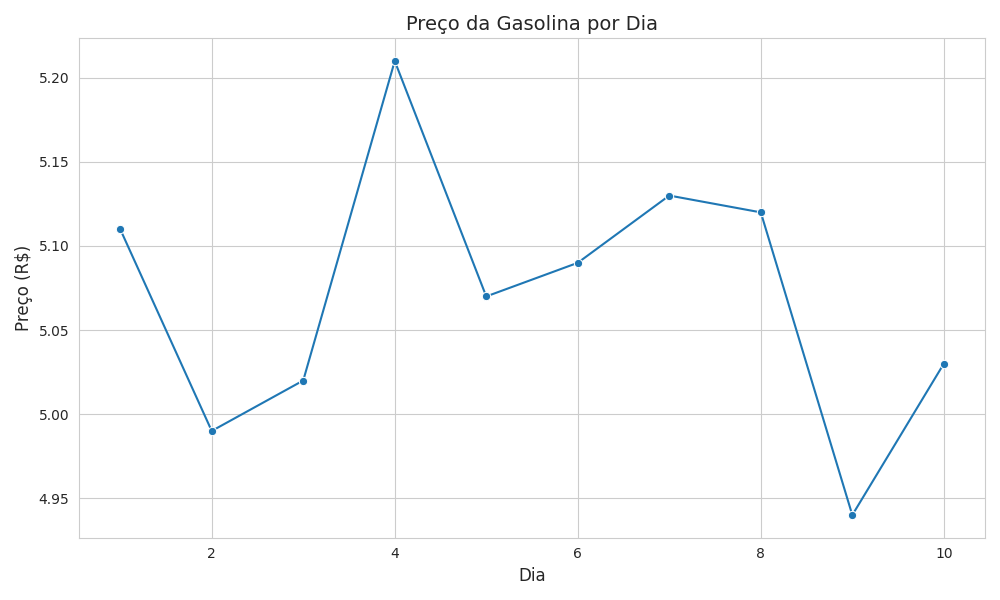
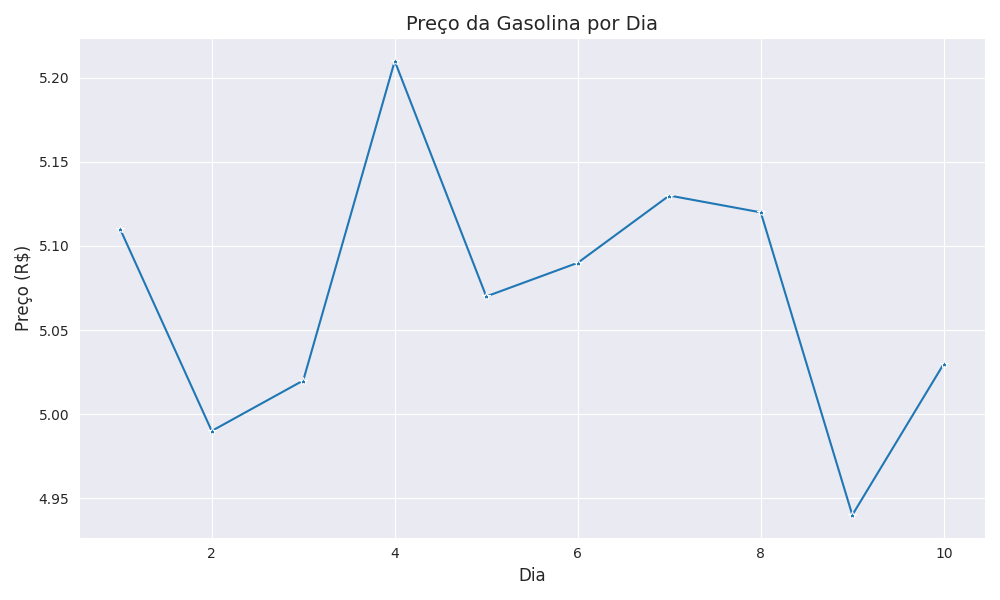
version darkgrid

Changed region(s): [[0.186, 0.69, 0.217, 0.72]]

diff --git a/gasolina.py b/gasolina.py
@@ -7,11 +7,11 @@ import seaborn as sns
 df = pd.read_csv('gasolina.csv')
 
 # Define o estilo visual do Seaborn
-sns.set_style("whitegrid")
+sns.set_style("darkgrid")
 
 # Cria o gráfico de linha com Seaborn
 plt.figure(figsize=(10, 6))  # Define o tamanho da figura
-sns.lineplot(x='dia', y='venda', data=df, marker='o')  # Cria o gráfico de linha com marcadores circulares
+sns.lineplot(x='dia', y='venda', data=df, marker='*')  # Cria o gráfico de linha com marcadores circulares
 plt.title('Preço da Gasolina por Dia', fontsize=14)  # Define o título do gráfico
 plt.xlabel('Dia', fontsize=12)  # Define o rótulo do eixo x
 plt.ylabel('Preço (R$)', fontsize=12)  # Define o rótulo do eixo y
@@ -24,3 +24,4 @@ plt.savefig('gasolina.png')
 
 # Mostra o gráfico na tela
 plt.show()
+    
